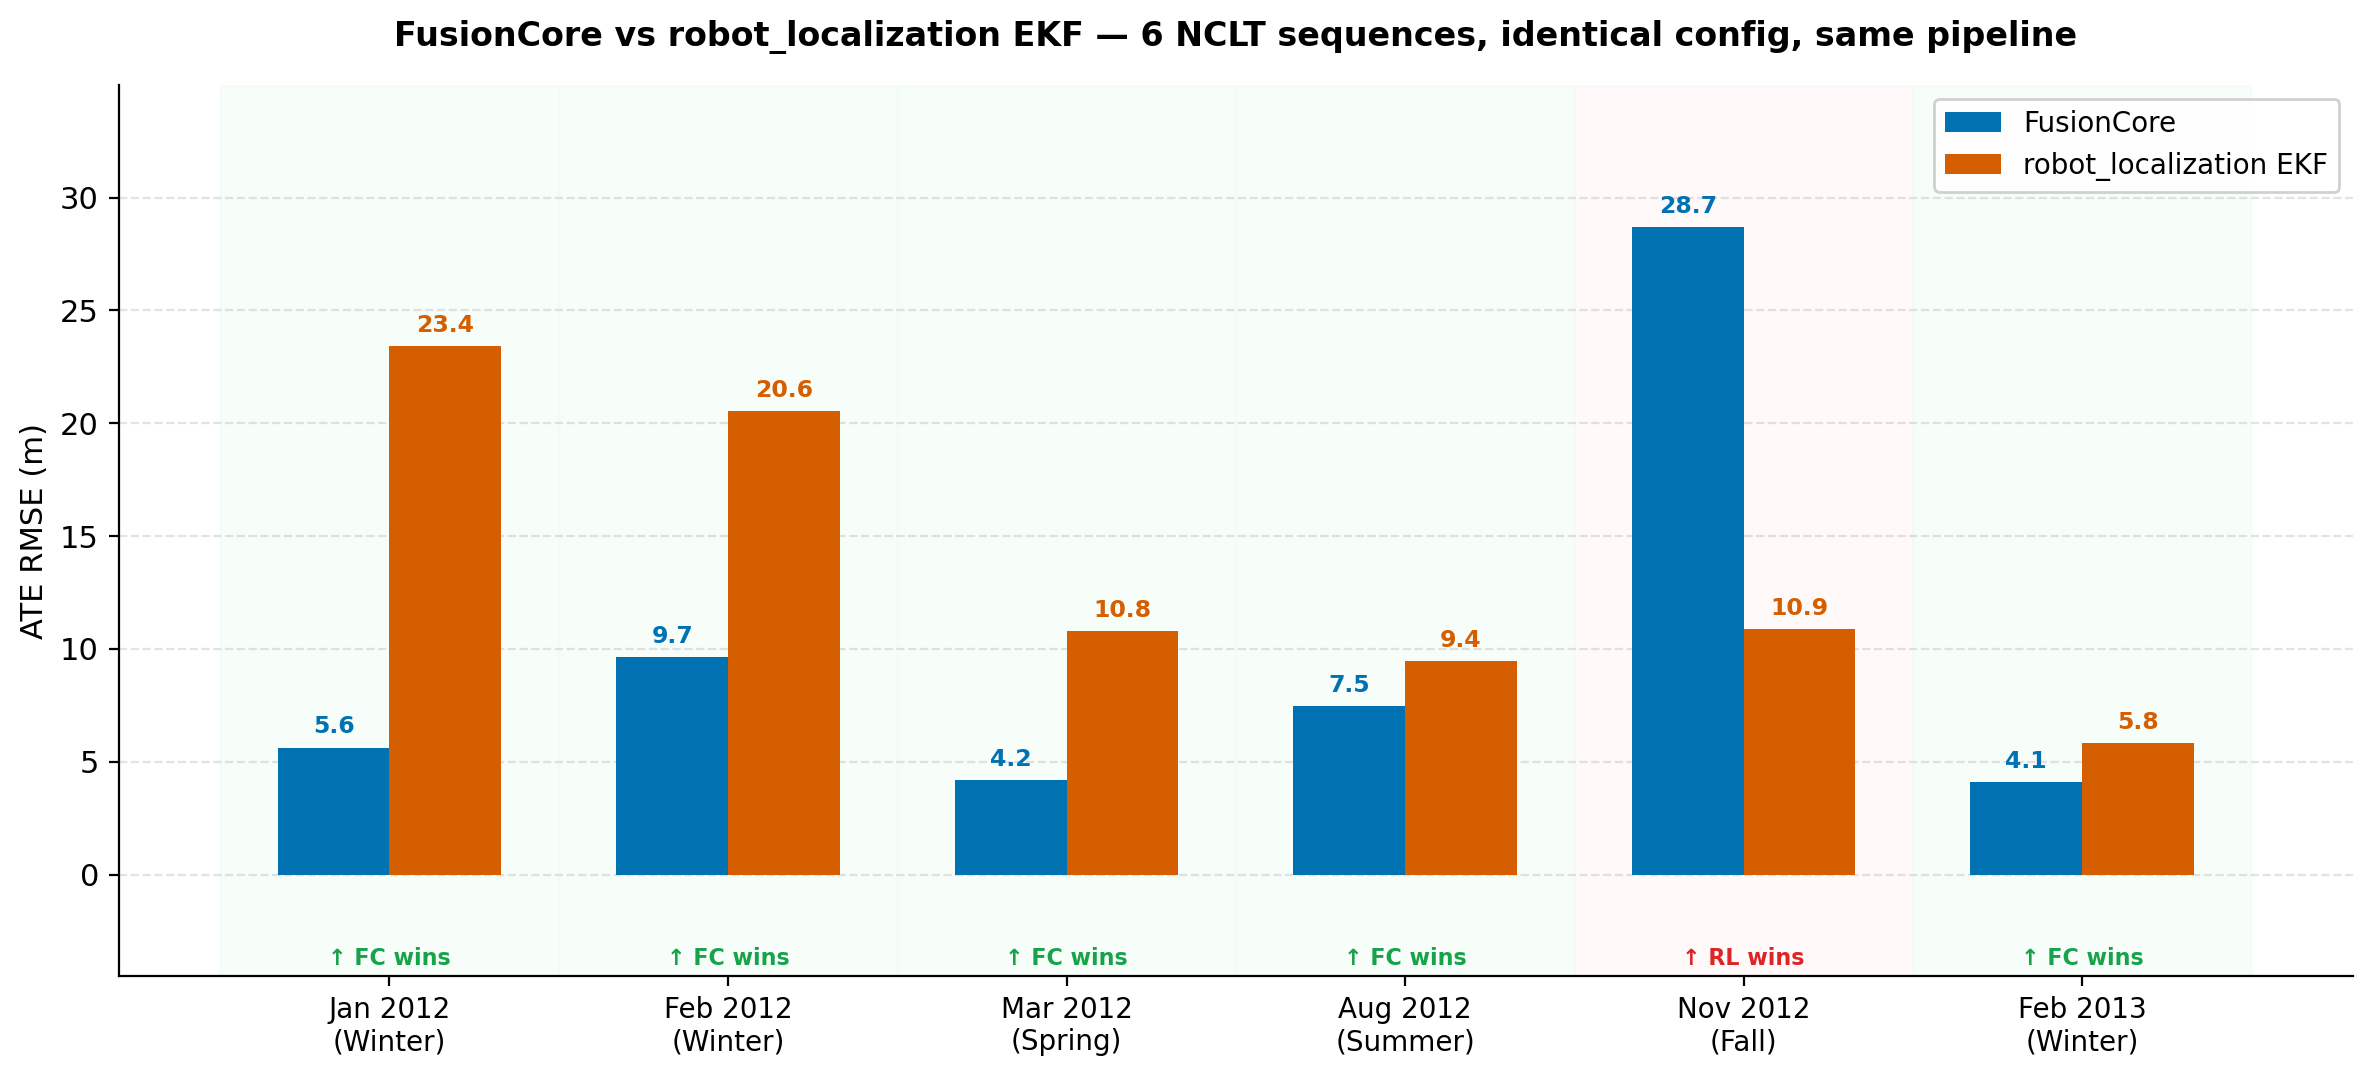
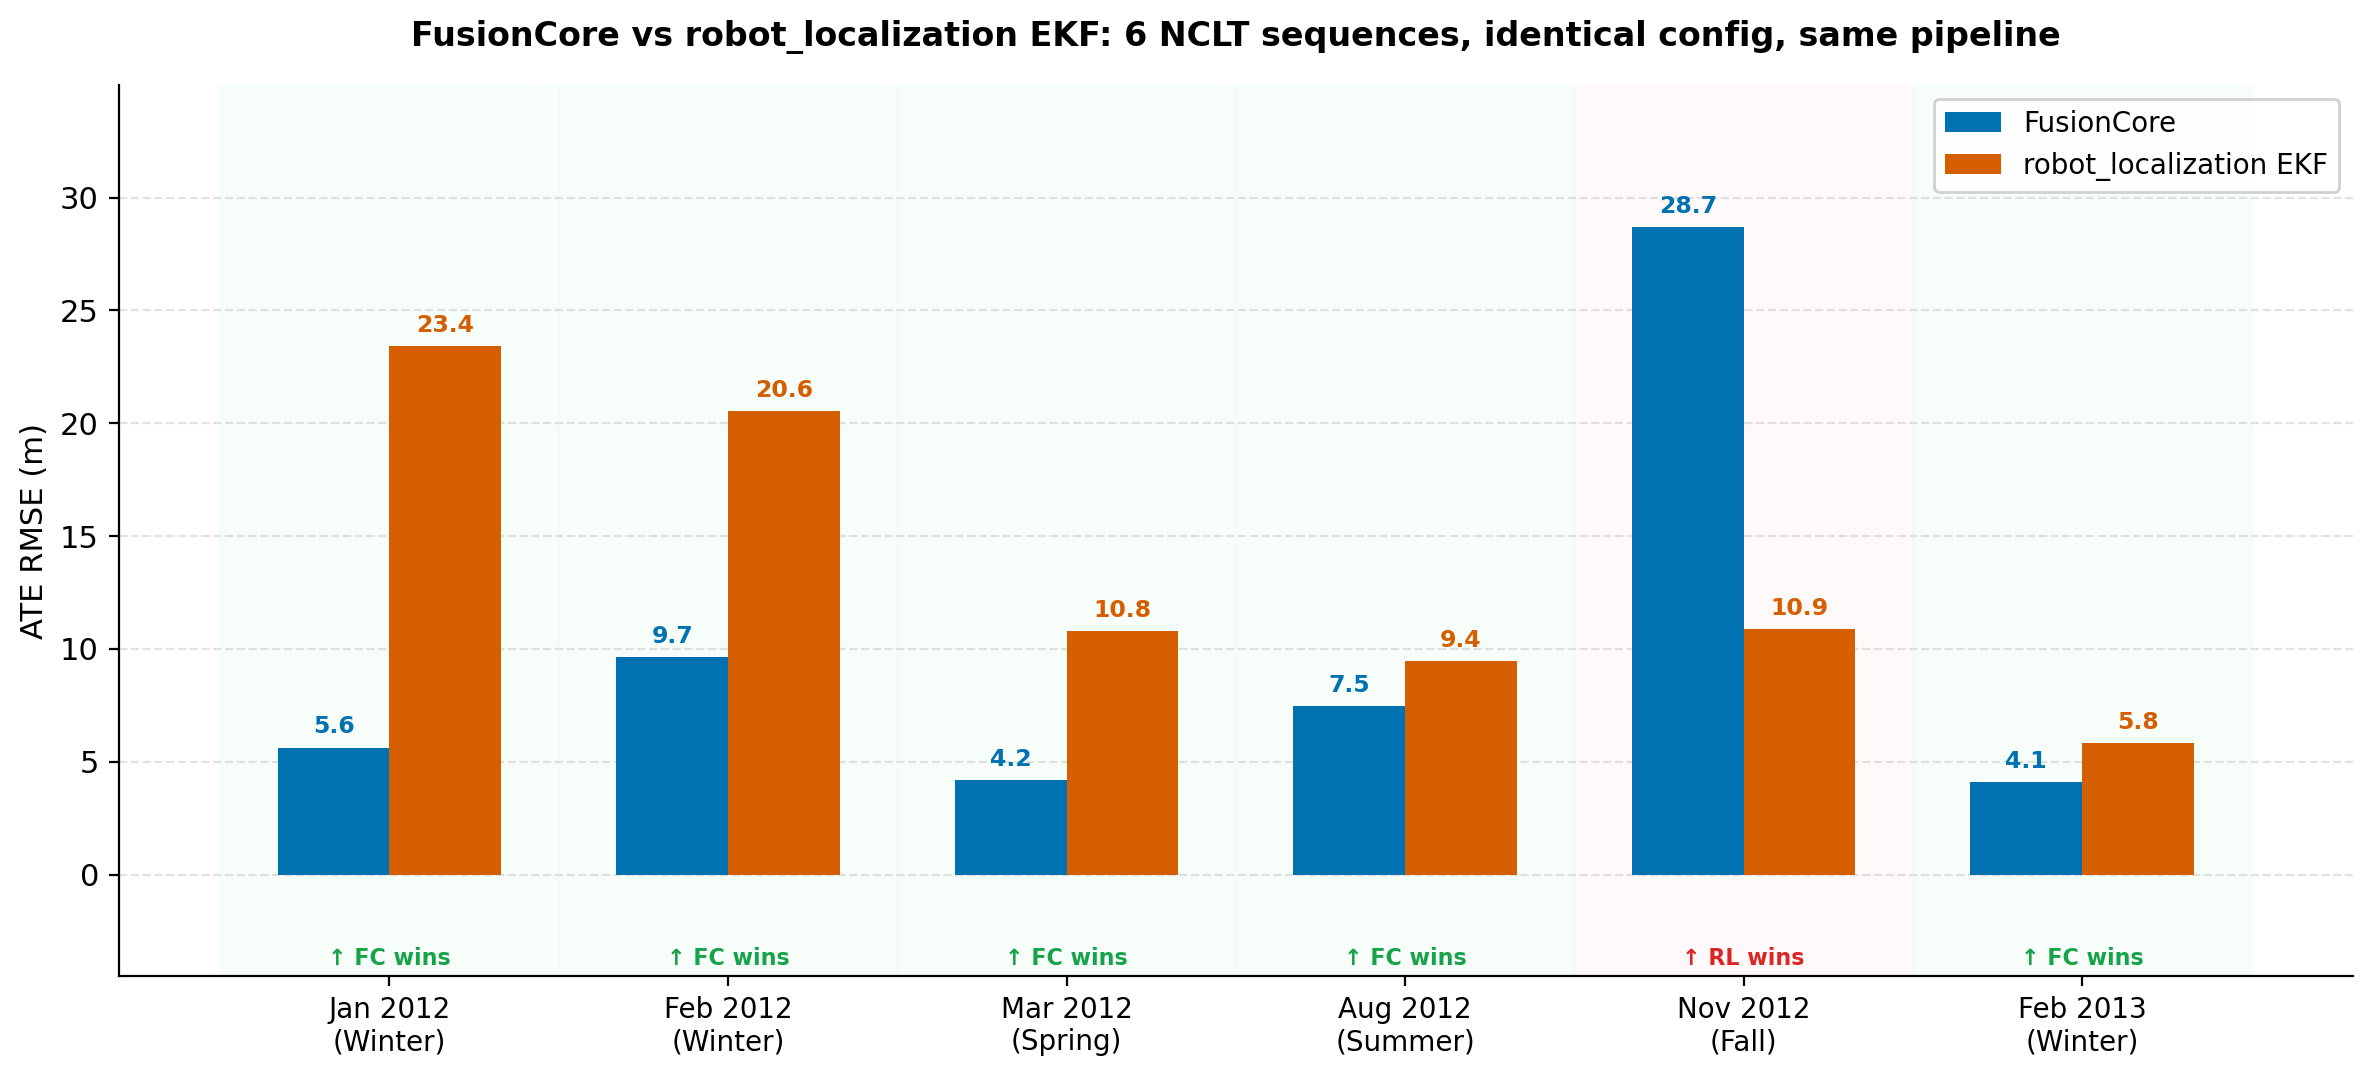
docs(readme): add benchmark figures to README

Changed region(s): [[0.1559, 0.0, 0.8732, 0.0613]]

diff --git a/tools/make_figures.py b/tools/make_figures.py
@@ -3,9 +3,9 @@
 Generate publication-quality benchmark figures for FusionCore post.
 
 Outputs (in figures/):
-  fig1_bar_chart.png   — FC vs RL ATE RMSE across all 6 sequences
-  fig2_traj_grid.png   — 2×3 trajectory overlay grid, all sequences
-  fig3_coast_mode.png  — coast mode before/after for 2012-11-04
+  fig1_bar_chart.png  : FC vs RL ATE RMSE across all 6 sequences
+  fig2_traj_grid.png  : 2×3 trajectory overlay grid, all sequences
+  fig3_coast_mode.png : coast mode before/after for 2012-11-04
 
 Usage:
   python3 tools/make_figures.py
@@ -99,7 +99,7 @@ def make_bar_chart():
     ax.set_xticklabels(LABELS, fontsize=10)
     ax.set_ylabel('ATE RMSE (m)', fontsize=11)
     ax.set_title(
-        'FusionCore vs robot_localization EKF — 6 NCLT sequences, identical config, same pipeline',
+        'FusionCore vs robot_localization EKF: 6 NCLT sequences, identical config, same pipeline',
         fontsize=12, fontweight='bold', pad=14)
     ax.legend(loc='upper right', fontsize=10, framealpha=0.92)
     ax.yaxis.grid(True, linestyle='--', alpha=0.35, zorder=0)
@@ -123,7 +123,7 @@ def align_to_ref(traj_est_full, traj_ref_full, max_diff=1.0, max_pts=2500):
         traj_ref_full, traj_est_full, max_diff=max_diff)
 
     if len(ref_s.timestamps) < 10:
-        # Too few pairs — fall back: center at origin
+        # Too few pairs: fall back: center at origin
         xy = traj_est_full.positions_xyz[:, :2]
         xy = xy - xy[0]
         return xy[::max(1, len(xy) // max_pts)]
@@ -160,13 +160,12 @@ def make_traj_grid():
             ax.set_title(lbl, fontweight='bold')
             continue
 
-        # Clip GT to the time window covered by the filter outputs.
-        # nclt_rtk_to_tum.py converts the full session (90 min) but the
-        # benchmark only ran for ~200 s — clip to that window so GT doesn't
-        # swamp the plot with data the filters never saw.
+        # Clip GT to the time window the filters actually ran over.
+        # ground_truth.tum covers the full NCLT session (90 min);
+        # the benchmark only ran ~200 s — clip so GT matches filter extent.
         t0 = min(traj_fc.timestamps[0],  traj_rl.timestamps[0])
         t1 = max(traj_fc.timestamps[-1], traj_rl.timestamps[-1])
-        mask = (traj_gt.timestamps >= t0 - 2.0) & (traj_gt.timestamps <= t1 + 2.0)
+        mask   = (traj_gt.timestamps >= t0 - 2.0) & (traj_gt.timestamps <= t1 + 2.0)
         gt_pos = traj_gt.positions_xyz[mask, :2]
         step   = max(1, len(gt_pos) // 2500)
         gt_xy  = gt_pos[::step]
@@ -223,7 +222,7 @@ def make_traj_grid():
                bbox_to_anchor=(0.5, -0.03), framealpha=0.95, edgecolor='#CCCCCC')
 
     fig.suptitle(
-        'Trajectory comparison — 6 NCLT sequences, all seasons, same config, same pipeline',
+        'Trajectory comparison: 6 NCLT sequences, all seasons, same config, same pipeline',
         fontsize=13, fontweight='bold', y=1.02)
 
     out = OUT / 'fig2_traj_grid.png'
@@ -266,13 +265,13 @@ def make_coast_chart():
     ax.set_xticks(range(3))
     ax.set_xticklabels(labels, fontsize=10.5)
     ax.set_ylabel('ATE RMSE (m)', fontsize=11)
-    ax.set_title('2012-11-04 (Fall — degraded GPS)\nInertial coast mode: what changed',
+    ax.set_title('2012-11-04 (Fall: degraded GPS)\nInertial coast mode: what changed',
                  fontsize=12, fontweight='bold', pad=12)
     ax.set_ylim(0, COAST_BEFORE * 1.28)
     ax.yaxis.grid(True, linestyle='--', alpha=0.35, zorder=0)
     ax.set_axisbelow(True)
 
-    # Honest footnote
+    # Honest footnote:
     ax.text(0.98, 0.025,
             'RL still wins on this sequence.\nNo rejection gate = immediate GPS self-correction.',
             transform=ax.transAxes, ha='right', va='bottom',

diff --git a/README.md b/README.md
@@ -33,6 +33,10 @@ FusionCore vs robot_localization on the [NCLT dataset](http://robots.engin.umich
 
 FusionCore wins 5 of 6 sequences. On 2012-11-04 (fall, degraded GPS), FC's Mahalanobis outlier gate still loses despite inertial coast mode (Q inflation on consecutive rejections): GPS was sufficiently degraded for long enough that accumulated drift could not be fully recovered. RL-EKF has no rejection gate and self-corrects immediately. RL-UKF diverged with NaN on all six sequences. Full methodology, configs, and reproduce instructions in [`benchmarks/`](benchmarks/).
 
+![ATE RMSE across 6 NCLT sequences](figures/fig1_bar_chart.png)
+
+![Trajectory overlay — all 6 sequences, SE3-aligned to RTK GPS ground truth](figures/fig2_traj_grid.png)
+
 ---
 
 ## Why FusionCore
